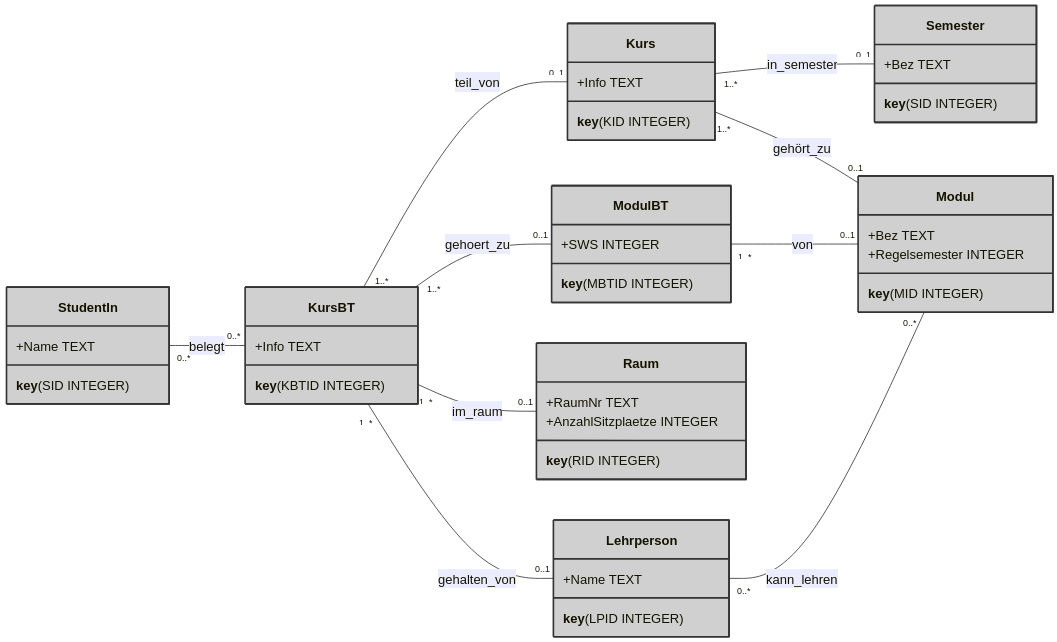
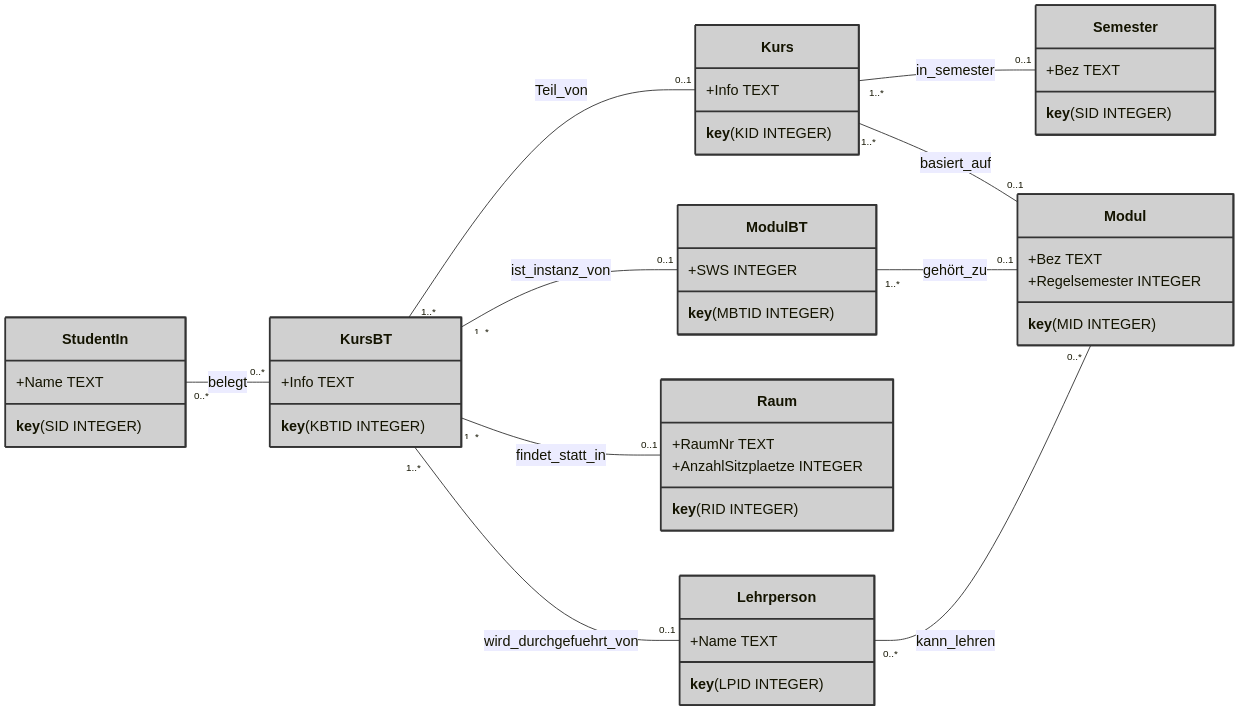
wip

diff --git a/home/lv/dmdb/er/er2.html b/home/lv/dmdb/er/er2.html
@@ -275,6 +275,6 @@ WHERE GID=1;</code></pre>
 -->
 {% include padding-id.html id=17 %}
 <h1>Assoziationstypen in HVS</h1>
-<img class="w3-image" src="/home/lv/dmdb/a/er1/d110.png">
+<img class="w3-image" src="/home/lv/dmdb/a/er2/d90.png">
 <div class="ic-gap"></div>
 